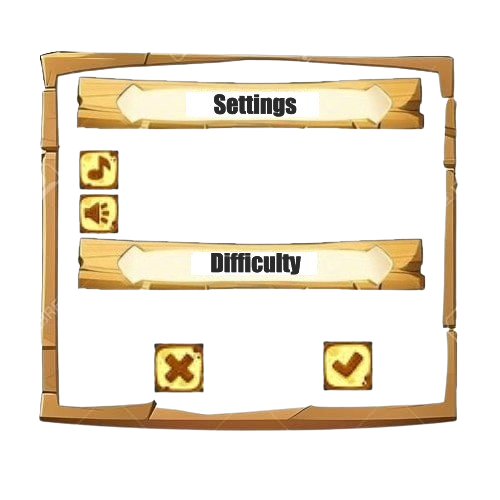
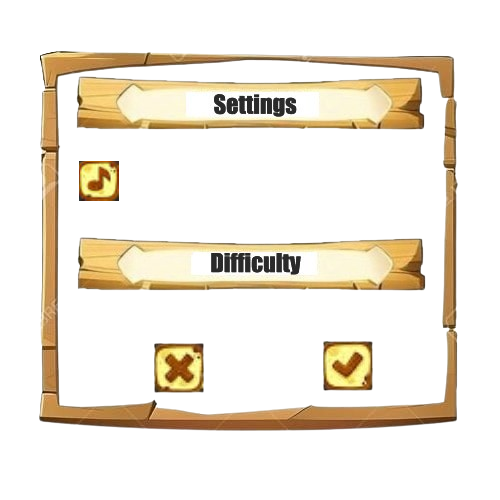
[MODIFY] increase and decrease volume handle by the options menu

Changed region(s): [[0.15, 0.3, 0.24, 0.48]]

diff --git a/src/VueCpp/GuiOptions.cpp b/src/VueCpp/GuiOptions.cpp
@@ -11,9 +11,11 @@ GuiOptions::GuiOptions(int WIDTH, int HEIGHT, int mouseX, int mouseY, bool click
 
 bool GuiOptions::drawOptions(int WIDTH, int HEIGHT, int mouseX, int mouseY, bool clicked, bool running, SDL_Window* optionWindow, SDL_Renderer* optionRenderer) {
 
+    clicked = false;
     Draw draw(clicked);
     optionWindow = draw.createWindow(WIDTH, HEIGHT, "Options", optionWindow);
     optionRenderer = draw.createRenderer(optionWindow, optionRenderer);
+    OptionController* optionController;
 
     // Option loop
     while (!running) {
@@ -30,33 +32,23 @@ bool GuiOptions::drawOptions(int WIDTH, int HEIGHT, int mouseX, int mouseY, bool
             }
         }
 
-    // Clear the renderer
     SDL_RenderClear(optionRenderer);
 
-    // Using of the drawImage method from the Draw class to draw the background
     draw.drawImage(optionRenderer, 0, 0, 1200, 600, "./assets/images/bcgOption.png");
 
     draw.drawImage(optionRenderer, -100, -50, 1400, 750, "./assets/images/settings.png");
 
-    draw.createButton(optionRenderer, 250, 180, 50, 50, "./assets/images/-.png", mouseX, mouseY, clicked, [](){
-        cout << "Button clicked";
+    draw.createButton(optionRenderer, 250, 200, 50, 50, "./assets/images/-.png", mouseX, mouseY, clicked, [&optionController](){
+        optionController->decreaseVolume();
+        cout << optionController->getVolume() << endl;
     });
-    draw.createButton(optionRenderer, 1000, 180, 50, 50, "./assets/images/+.png", mouseX, mouseY, clicked, [](){
-        cout << "Button clicked";
-    });
-
-    draw.drawRect(optionRenderer, 310, 180, 680, 50, 255, 255, 255, 255);
-    draw.drawRect(optionRenderer, 310, 180, 680, 50, 0, 0, 0, 255);
-
-    draw.createButton(optionRenderer, 250, 245, 50, 50, "./assets/images/-.png", mouseX, mouseY, clicked, [](){
-        cout << "Button clicked";
-    });
-    draw.createButton(optionRenderer, 1000, 245, 50, 50, "./assets/images/+.png", mouseX, mouseY, clicked, [](){
-        cout << "Button clicked";
+    draw.createButton(optionRenderer, 1000, 200, 50, 50, "./assets/images/+.png", mouseX, mouseY, clicked, [&optionController](){
+        optionController->increaseVolume();
+        cout << optionController->getVolume() << endl;
     });
 
-    draw.drawRect(optionRenderer, 310, 245, 680, 50, 255, 255, 255, 255);
-    draw.drawRect(optionRenderer, 310, 245, 680, 50, 0, 0, 0, 255);
+    rectVolume(optionRenderer, 310, 200, 680, 50, optionController->getVolume(), 132, &draw);
+
     
     vector<string> links;
 
@@ -82,4 +74,14 @@ bool GuiOptions::drawOptions(int WIDTH, int HEIGHT, int mouseX, int mouseY, bool
     SDL_Quit();
 
     return running;
+}
+
+void GuiOptions::rectVolume(SDL_Renderer* renderer, int x, int y, int width, int height, int currentVolume, int maxVolume, Draw* draw) {
+
+    float volumePercentage = static_cast<float>(currentVolume) / static_cast<float>(maxVolume);
+    int red = static_cast<int>((1.0f - volumePercentage) * 255);
+    int green = static_cast<int>(volumePercentage * 255);
+    float widthPercentage = static_cast<float>(width) * volumePercentage;
+
+    draw->drawRect(renderer, x, y, widthPercentage, height, red, green, 0, 255);
 }

diff --git a/src/ModelCpp/Option.cpp b/src/ModelCpp/Option.cpp
@@ -46,28 +46,6 @@ Option::~Option() {
     SDL_Quit();
 }
 
-void Option::loadOptionEffect(const std::string& soundEffect) {
-    SDL_AudioSpec spec;
-    Uint8* buffer;
-    Uint32 length;
-    if (SDL_LoadWAV(soundEffect.c_str(), &spec, &buffer, &length) == nullptr) {
-        cerr << "Failed to load sound effect: " << SDL_GetError();
-        return;
-    }
-    soundEffects[soundEffect] = spec;
-    audioBuffers[soundEffect] = buffer;
-    audioLengths[soundEffect] = length;
-}
-
-void Option::playOptionEffect(const std::string& soundEffect) {
-    auto it = audioBuffers.find(soundEffect);
-    if (it != audioBuffers.end()) {
-        SDL_QueueAudio(audioDevice, it->second, audioLengths[soundEffect]);
-    } else {
-        cerr << "Option effect not found: " << soundEffect;
-    }
-}
-
 void Option::loadMusic(const std::string& music) {
     if (musicBuffer) {
         SDL_FreeWAV(musicBuffer);

diff --git a/include/VueH/GuiOptions.h b/include/VueH/GuiOptions.h
@@ -1,19 +1,19 @@
 #pragma once
-
 #include <.\VueH\Draw.h>
 #include "ControllerH/OptionController.h"
-#include <vector>
 
 class GuiOptions {
     public:
         GuiOptions(int WIDTH, int HEIGHT, int mouseX, int mouseY, bool clicked, bool running);
 
         bool drawOptions(int WIDTH, int HEIGHT, int mouseX, int mouseY, bool clicked, bool running, SDL_Window* optionWindow, SDL_Renderer* optionRenderer);
+        void rectVolume(SDL_Renderer* renderer, int x, int y, int width, int height, int currentVolume, int maxVolume, Draw* draw);
         
     private:
         int WIDTH, HEIGHT;
         int mouseX, mouseY;
         bool clicked;
         bool running;
+
         SDL_Event evenement;
 };

diff --git a/src/ControllerCpp/OptionController.cpp b/src/ControllerCpp/OptionController.cpp
@@ -7,12 +7,6 @@ OptionController::OptionController() {
 
 OptionController::~OptionController() {}
 
-void OptionController::loadOptionEffect(const std::string& soundEffect) {
-    options->loadOptionEffect(soundEffect);
-}
-void OptionController::playOptionEffect(const std::string& soundEffect) {
-    options->playOptionEffect(soundEffect);
-}
 void OptionController::loadMusic(const std::string& music) {
     options->loadMusic(music);
 }

diff --git a/include/ControllerH/OptionController.h b/include/ControllerH/OptionController.h
@@ -7,11 +7,8 @@ public:
     OptionController();
     ~OptionController();
     
-    void loadOptionEffect(const string& soundEffect);
-    void playOptionEffect(const string& soundEffect);
     void loadMusic(const string& music);
     void playMusic();
-    void stopMusic();
     void decreaseVolume();
     void increaseVolume();
     int getVolume();

diff --git a/include/ModelH/Option.h b/include/ModelH/Option.h
@@ -7,8 +7,6 @@ class Option {
 public:
     static Option* getInstance();
     
-    void loadOptionEffect(const string& soundEffect);
-    void playOptionEffect(const string& soundEffect);
     void loadMusic(const string& music);
     void playMusic();
     void decreaseVolume();

diff --git a/include/VueH/Draw.h b/include/VueH/Draw.h
@@ -3,6 +3,7 @@
 #include <SDL2/SDL.h>
 #include <SDL2/SDL_ttf.h>
 #include <SDL2/SDL_image.h>
+#include <vector>
 #include <iostream>
 #include <functional>
 #include <fstream>
